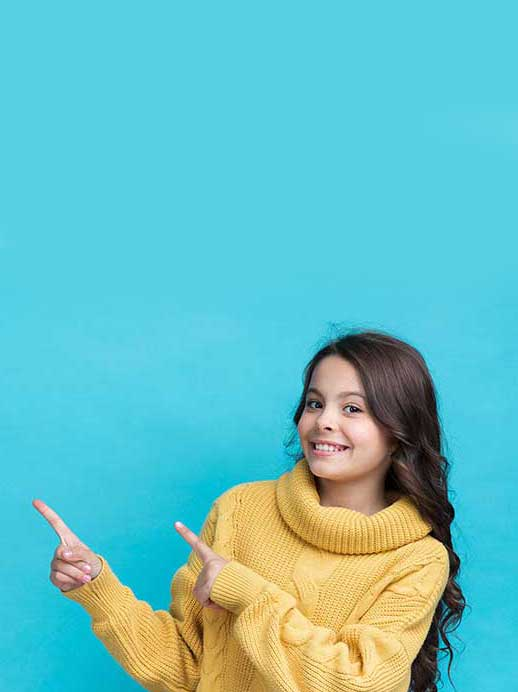
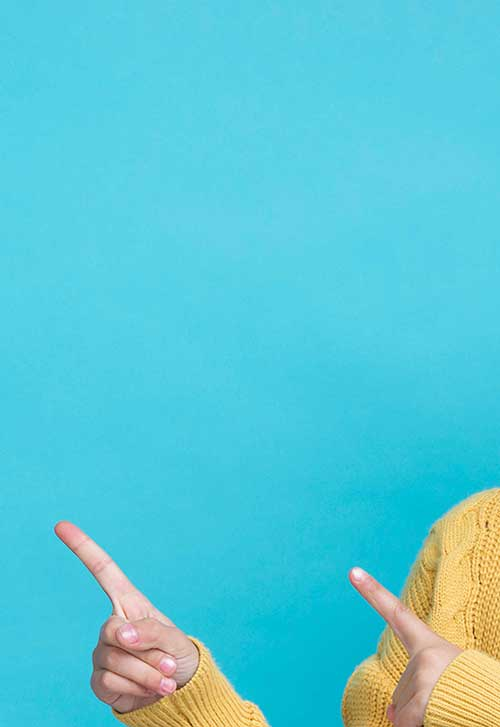
Adjust media queries for smaller devices

diff --git a/assets/css/style.css b/assets/css/style.css
@@ -85,27 +85,30 @@ h2 {
 
 #main-about {
     padding-top: 25px;
-    margin-left: 25%;
-    width: 33%;
+    margin-left: 20%;
+    width: 40%;
 }
 
 #main-about p {
     font-size: 120%;
 }
 
-hr {
-    border-top: dotted 3px;
-    width: 300px;
-    border-color: #72c5ce;
-    margin: 10px 0;
+#main-subhead {
+    border-bottom: #72c5ce 3px dotted;
+    width: fit-content;
+}
+
+#center-heading {
+    display: flex;
+    justify-content: center;
+    margin: 20px 0;
 }
 
 #kids-icon {
-    padding-top: 25px;
     background: url('../images/center-icon-kids.gif') no-repeat center center;
     height: 178px;
     width: 356px;
-    margin-left: 5%;
+    margin: 40px 20px 0;
 }
 
 /* bookclub locations and times */
@@ -226,12 +229,18 @@ hr {
 
     .form-section {
         background: url('../images/young-smiley-girl-portrait-pointing-small.jpg') no-repeat center center;
-        height: 700px;
+        height: 630px;
         width: auto;
+        background-position: left;
+    }
+
+    .signup-form {
+        margin: 30px 5% 0 0;
+        left: 5%;
     }
 
     #kids-logo {
-        font-size: 200%;
+        font-size: 230%;
     }
 
     #main-heading {
@@ -246,35 +255,48 @@ hr {
         width: 108%;
     }
 
-/* For tablet size screens from 768px wide and down */
-@media screen and (max-width: 768px) {
-
-    .location {
-        width: 95%;
-    }
-
-    #main-image {
-        background: url('../images/kids_main_image_small.jpg') no-repeat;
-        height: 300px;
-    }
-
-    #kids-icon {
-        margin-left: 1%;
-        float: left;
-    }
-
-
-
 }
 
-/* For smaller screens and laptops from 1024px wide and down */
-@media screen and (max-width: 1024px) {
+    /* For tablet size screens from 768px wide and down */
+    @media screen and (max-width: 768px) {
 
-    #main-about {
-        padding-top: 15px;
-        margin-left: 5%;
-        width: 80%;
-        font-size: 110%;
+        .location {
+            width: 95%;
+        }
+
+        #main-image {
+            background: url('../images/kids_main_image_small.jpg') no-repeat;
+            height: 300px;
+        }
+
+        #kids-icon {
+            margin-left: 1%;
+        }
+
+        #center-heading {
+            justify-content: left;
+        }
+
+        #main-about {
+            text-align: left;
+            width: 90%;
+            margin-left: 10px;
+        }
+
     }
 
-}
+    /* For smaller screens and laptops from 1024px wide and down */
+    @media screen and (max-width: 1024px) and (min-width: 769px) {
+
+        #kids-icon {
+            width: 80%;
+            margin-left: 5%;
+        }
+
+        #main-about {
+            width: 80%;
+            margin-left: 5%;
+            text-align: center;
+        }
+
+    }

diff --git a/index.html b/index.html
@@ -39,8 +39,9 @@
     <h1 id="main-heading">Reading is so much fun!</h1>
     <div id="main-section">
         <div id="main-about">
-            <h2 id="main-subhead">Learn and have Fun! <i class="fa-solid fa-face-grin-beam"></i></h2>
-            <hr>
+            <div id="center-heading">
+                <h2 id="main-subhead">Learn and have Fun! <i class="fa-solid fa-face-grin-beam"></i></h2>
+            </div>
             <p>
                 Our classes are for children ages 4 to 12 years old. We make reading a fun group activity that your
                 child
